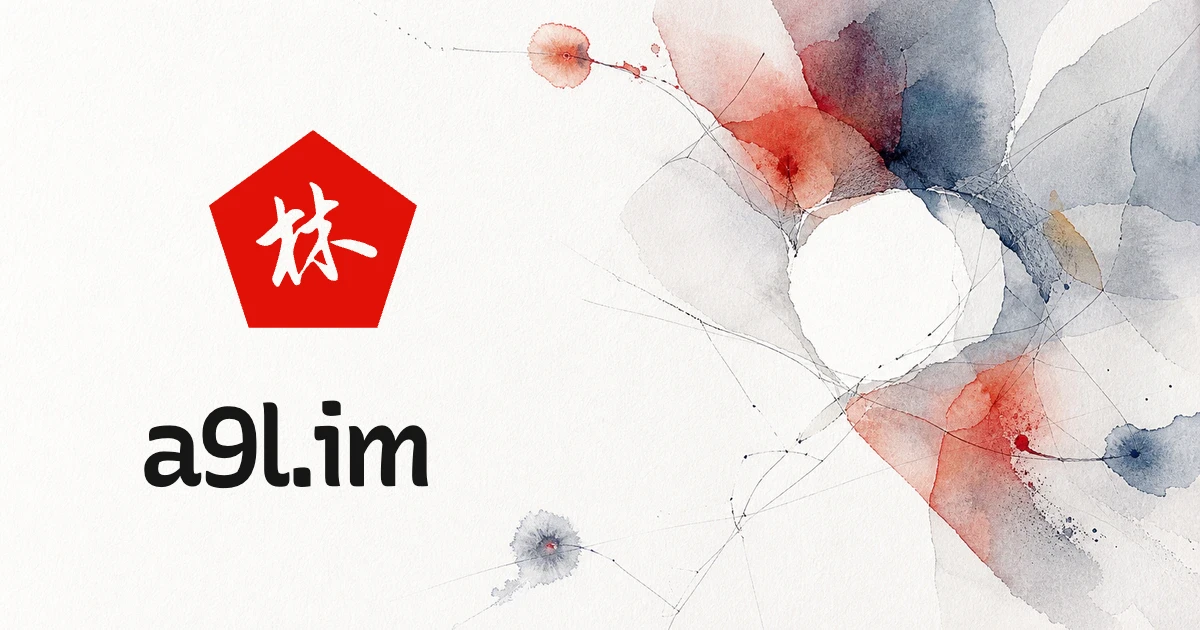
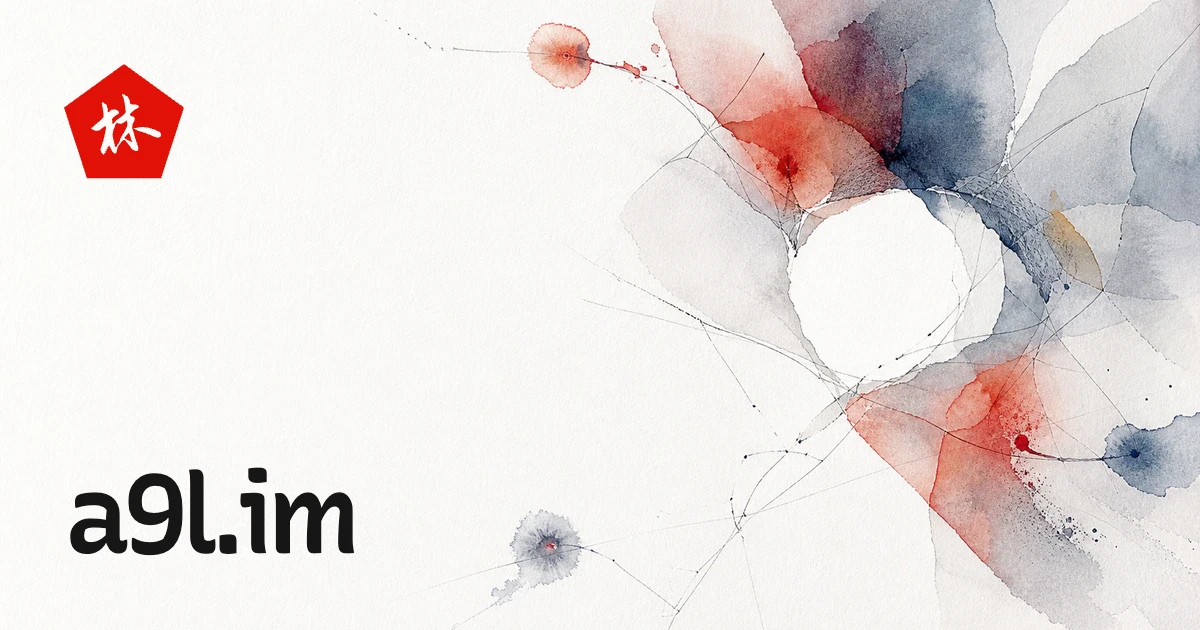
Anchor social card identity to page edges

Changed region(s): [[0.0617, 0.6333, 0.37, 0.9048], [0.1542, 0.2111, 0.37, 0.5429], [0.0308, 0.0905, 0.1542, 0.3016]]

diff --git a/worker/index.js b/worker/index.js
@@ -772,7 +772,7 @@ export default {
                           articleBody,
                           ...(postMeta.tag && { articleSection: Array.isArray(postMeta.tag) ? postMeta.tag[0] : postMeta.tag }),
                           speakable: { '@type': 'SpeakableSpecification', cssSelector: ['.blog-post-title', '.blog-content p:first-of-type'] },
-                          image: 'https://a9l.im/og-image.webp?v=20260725e',
+                          image: 'https://a9l.im/og-image.webp?v=20260725f',
                           author: { '@type': 'Person', '@id': 'https://a9l.im/#person', name: 'a9lim', url: 'https://a9l.im/', sameAs: ['https://github.com/a9lim', 'https://twitter.com/_a9lim'] },
                           publisher: { '@type': 'Organization', name: 'a9l.im', url: 'https://a9l.im', logo: { '@type': 'ImageObject', url: 'https://a9l.im/icon-192.png', width: 192, height: 192 } },
                           isPartOf: { '@type': 'Blog', name: 'a9l.im Blog', url: 'https://a9l.im/blog' },

diff --git a/site/index.html b/site/index.html
@@ -12,8 +12,8 @@
     <meta property="og:url" content="https://a9l.im">
     <meta property="og:site_name" content="a9l.im">
     <meta name="twitter:card" content="summary_large_image">
-    <meta property="og:image" content="https://a9l.im/og-image.webp?v=20260725e">
-    <meta name="twitter:image" content="https://a9l.im/og-image.webp?v=20260725e">
+    <meta property="og:image" content="https://a9l.im/og-image.webp?v=20260725f">
+    <meta name="twitter:image" content="https://a9l.im/og-image.webp?v=20260725f">
     <meta name="twitter:image:alt" data-i18n-content="c.site.ogImageAlt" content="a9l.im — research, simulations, and open-source software">
     <meta property="og:image:width" content="1200">
     <meta property="og:image:height" content="630">

diff --git a/tools/og/card.css b/tools/og/card.css
@@ -40,22 +40,22 @@ body {
 }
 
 .mark {
-  width: 208px;
-  height: 208px;
+  position: absolute;
+  top: 64px;
+  left: 64px;
+  width: 120px;
+  height: 120px;
 }
 
 .copy {
   position: absolute;
-  top: 130px;
-  left: 168px;
-  display: flex;
-  width: max-content;
-  flex-direction: column;
-  align-items: center;
-  gap: 42px;
+  inset: 0;
 }
 
 h1 {
+  position: absolute;
+  bottom: 64px;
+  left: 64px;
   margin: 0;
   color: #151615;
   font-size: 116px;
@@ -63,7 +63,6 @@ h1 {
   font-weight: 570;
   letter-spacing: -0.062em;
   line-height: 0.92;
-  transform: translate(-30px, 18px);
 }
 
 .root h1 {
